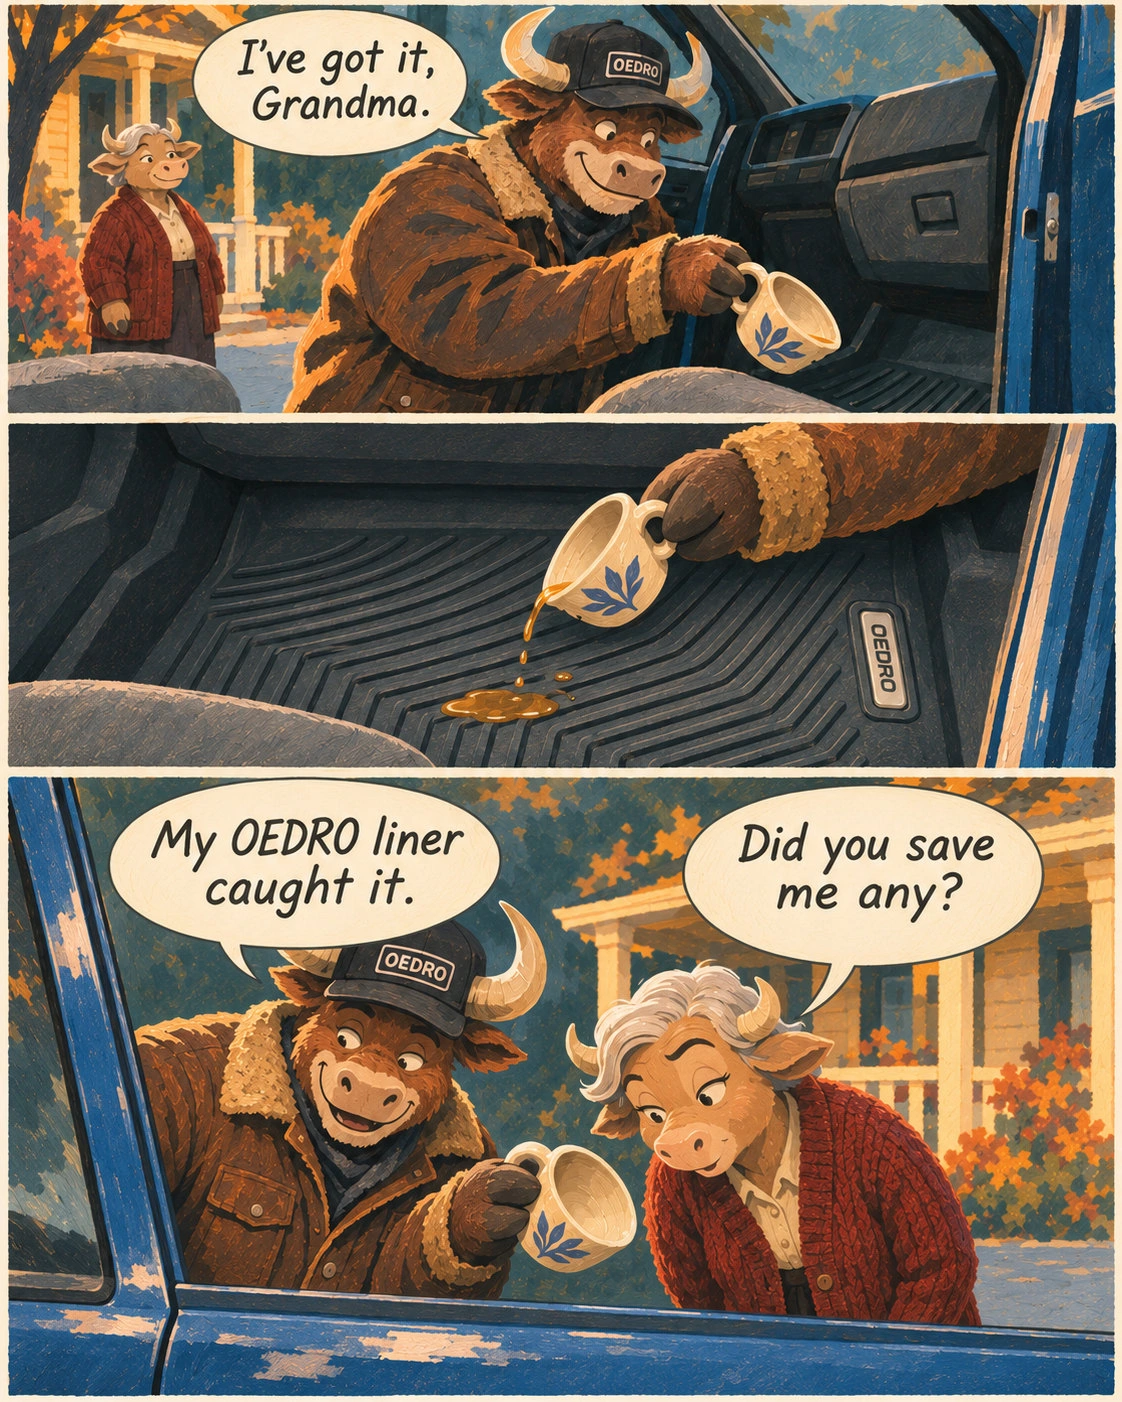
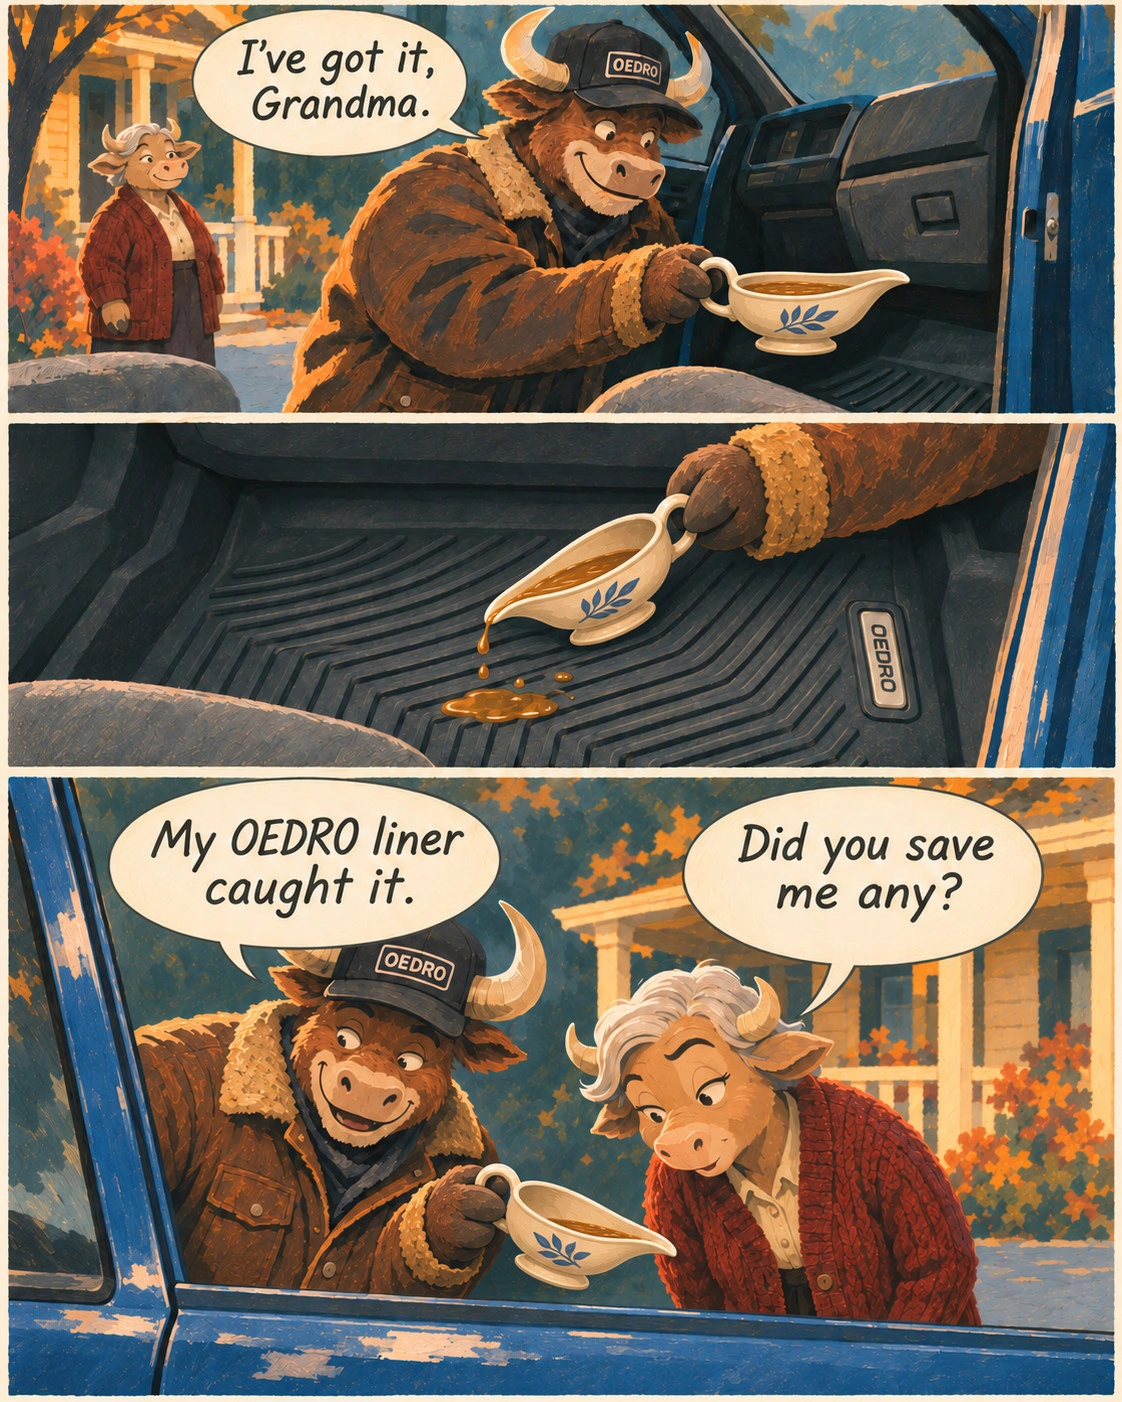
Update reviewed Schedule artwork and captions

diff --git a/feed-oedro.html b/feed-oedro.html
@@ -400,30 +400,30 @@ What's the first thing you check when it starts to rain?</p></div>
 </div>
 <div class="post-body">
 <h3 lang="en">Thanksgiving Gravy Run</h3>
-<p class="post-context"><span class="post-status" data-status="review">待审 <span lang="en">In review</span></span> · 脚垫接住了肉汁，奶奶却只关心杯里还剩多少。 <span lang="en">The liner saves the carpet. Grandma wants to know what is left in the cup.</span></p>
+<p class="post-context"><span class="post-status" data-status="review">待审 <span lang="en">In review</span></span> · 肉汁从带嘴的瓷盅洒进脚垫，奶奶最关心的还是剩下多少。 <span lang="en">The gravy boat makes the spill clear before Grandma asks how much is left.</span></p>
 <div class="post-platforms"><div class="post-platform-switch" role="group" aria-label="平台"><button type="button" data-platform="Instagram" aria-pressed="true">Instagram</button><button type="button" data-platform="Facebook" aria-pressed="false">Facebook</button><button type="button" data-platform="X" aria-pressed="false">X</button><button type="button" data-platform="Threads" aria-pressed="false">Threads</button></div><button type="button" class="post-copy">复制配文</button></div>
-<div class="post-caption" data-feed-platform="Instagram"><p class="feed-caption" lang="en">Bruno’s OEDRO floor liner caught the gravy. Grandma was more interested in the empty cup. Send this to whoever gets put in charge of the gravy.</p></div>
-<div class="post-caption" data-feed-platform="Facebook" hidden><p class="feed-caption" lang="en">There are two things you can check after you spill gravy in a parked truck. Bruno was relieved about the floor. Grandma wanted to know how much gravy was left. Which one would you look at first?</p></div>
+<div class="post-caption" data-feed-platform="Instagram"><p class="feed-caption" lang="en">Bruno’s OEDRO floor liner caught the gravy. Grandma was more interested in the gravy boat. Send this to whoever gets put in charge of the gravy.</p></div>
+<div class="post-caption" data-feed-platform="Facebook" hidden><p class="feed-caption" lang="en">When you spill gravy in a parked truck, there are two things to check. Bruno was relieved about the floor. Grandma wanted to know how much was left in the gravy boat. Which would you look at first?</p></div>
 <div class="post-caption" data-feed-platform="X" hidden><p class="feed-caption" lang="en">Bruno: “My OEDRO liner caught it.”
 Grandma was hoping for a different kind of save.</p></div>
-<div class="post-caption" data-feed-platform="Threads" hidden><p class="feed-caption" lang="en">I know somebody who would look at the floor liner before checking whether there was any gravy left. It’s me. Who’s checking the cup?</p></div>
+<div class="post-caption" data-feed-platform="Threads" hidden><p class="feed-caption" lang="en">I’d check the floor liner first, too. Who else is getting a look from Grandma over what’s left in that gravy boat?</p></div>
 <p class="post-links"><a href="https://hsbrxlb.github.io/user-ops-hub/assets/feed/oedro-11-24-03/1.webp" lang="en">Images</a></p>
 </div>
 </article>
-<article class="post" data-post="real-truck-guys" data-purpose="comic seasonal running-boards">
+<article class="post" data-post="11-24-04" data-purpose="comic seasonal running-boards" data-schedule-status="In review – do not post yet">
 <div class="post-media">
-<button class="feed-large" type="button" aria-label="查看大图" data-title="Real Truck Guys" data-pages="assets/feed/real-truck-guys/1-86ec5dc7a6ba.webp|assets/feed/real-truck-guys/2-69939b564fde.webp"><img src="assets/feed/real-truck-guys/1-86ec5dc7a6ba.webp" alt="Real Truck Guys" width="1122" height="1402" loading="lazy"></button>
-<div class="post-thumbs"><button type="button" data-feed-thumb="0" aria-label="第 1 张漫画" aria-current="true"><img src="assets/feed/real-truck-guys/1-86ec5dc7a6ba.webp" alt="" width="1122" height="1402" loading="lazy" data-no-zoom></button><button type="button" data-feed-thumb="1" aria-label="第 2 张漫画"><img src="assets/feed/real-truck-guys/2-69939b564fde.webp" alt="" width="1122" height="1402" loading="lazy" data-no-zoom></button></div>
+<button class="feed-large" type="button" aria-label="查看大图" data-title="Real Truck Guys" data-pages="assets/feed/oedro-11-24-04/1.webp"><img src="assets/feed/oedro-11-24-04/1.webp" alt="Real Truck Guys" width="1122" height="1402" loading="lazy"></button>
 </div>
 <div class="post-body">
-<ul class="post-purpose" aria-label="用途"><li data-tag="comic">漫画<span lang="en">Comic</span></li><li data-tag="seasonal">应季场景<span lang="en">Seasonal</span></li><li data-tag="running-boards" class="is-product">踏板<span lang="en">Running boards</span></li></ul>
 <h3 lang="en">Real Truck Guys</h3>
-<p class="post-context"><span class="post-status" data-status="review">要重做 <span lang="en">Needs rework</span></span>结尾靠对白解释，品牌在手机上难辨。 <span lang="en">The last panel relies on dialogue and the brand is hard to spot.</span></p>
+<p class="post-context"><span class="post-status" data-status="review">待审 <span lang="en">In review</span></span> · 刚说能直接跳上车的邻居抬脚一试，最后踩上踏板，还想保住面子。 <span lang="en">The neighbor’s boast unravels when he needs the running board to get in.</span></p>
 <div class="post-platforms"><div class="post-platform-switch" role="group" aria-label="平台"><button type="button" data-platform="Instagram" aria-pressed="true">Instagram</button><button type="button" data-platform="Facebook" aria-pressed="false">Facebook</button><button type="button" data-platform="X" aria-pressed="false">X</button><button type="button" data-platform="Threads" aria-pressed="false">Threads</button></div><button type="button" class="post-copy">复制配文</button></div>
-<div class="post-caption" data-feed-platform="Instagram"><p class="feed-caption" lang="en">Getting into a truck with a full coffee is a skill most of us learn the hard way. Step height decides how that goes. The driver kept his coffee upright. OEDRO two-step running boards fit 2015-2026 Ford F-150 SuperCrew.</p></div>
-<div class="post-caption" data-feed-platform="Facebook" hidden><p class="feed-caption" lang="en">A lot of truck owners say they don&#x27;t need a step until the day they do. A lowered step and perforated tread make climbing into a tall cab feel a little less like a stunt. The neighbor is still working on admitting that, but he&#x27;s been a good sport about the ride. OEDRO two-step running boards fit 2015-2026 Ford F-150 SuperCrew.</p></div>
-<div class="post-caption" data-feed-platform="X" hidden><p class="feed-caption" lang="en">The climb into a tall cab is easier when your pride has a plan, and sometimes the plan is the passenger seat. The neighbor knows. OEDRO two-step running boards fit 2015-2026 Ford F-150 SuperCrew.</p></div>
-<div class="post-caption" data-feed-platform="Threads" hidden><p class="feed-caption" lang="en">The passenger seat has a great view of other people&#x27;s trucks. The neighbor is finding that out. OEDRO two-step running boards fit 2015-2026 Ford F-150 SuperCrew.</p></div>
+<div class="post-caption" data-feed-platform="Instagram"><p class="feed-caption" lang="en">The neighbor said real truck guys hop in. One look at that silver truck’s door sill and he was trying Bruno’s OEDRO step instead. Send this to the friend who still calls it a hop.</p></div>
+<div class="post-caption" data-feed-platform="Facebook" hidden><p class="feed-caption" lang="en">The neighbor gave the big speech in the driveway. The tall sill gave him a minute to think about it. He climbed in on the OEDRO step and had one small request about how the story would be told.</p></div>
+<div class="post-caption" data-feed-platform="X" hidden><p class="feed-caption" lang="en">“Real truck guys just hop in.”
+One OEDRO running board later: “Tell them I drove.”</p></div>
+<div class="post-caption" data-feed-platform="Threads" hidden><p class="feed-caption" lang="en">The truck rule is apparently that you can borrow a step as long as nobody puts it in the story. What do you call that first climb into a tall pickup?</p></div>
+<p class="post-links"><a href="https://hsbrxlb.github.io/user-ops-hub/assets/feed/oedro-11-24-04/1.webp" lang="en">Images</a></p>
 </div>
 </article>
 </section>
